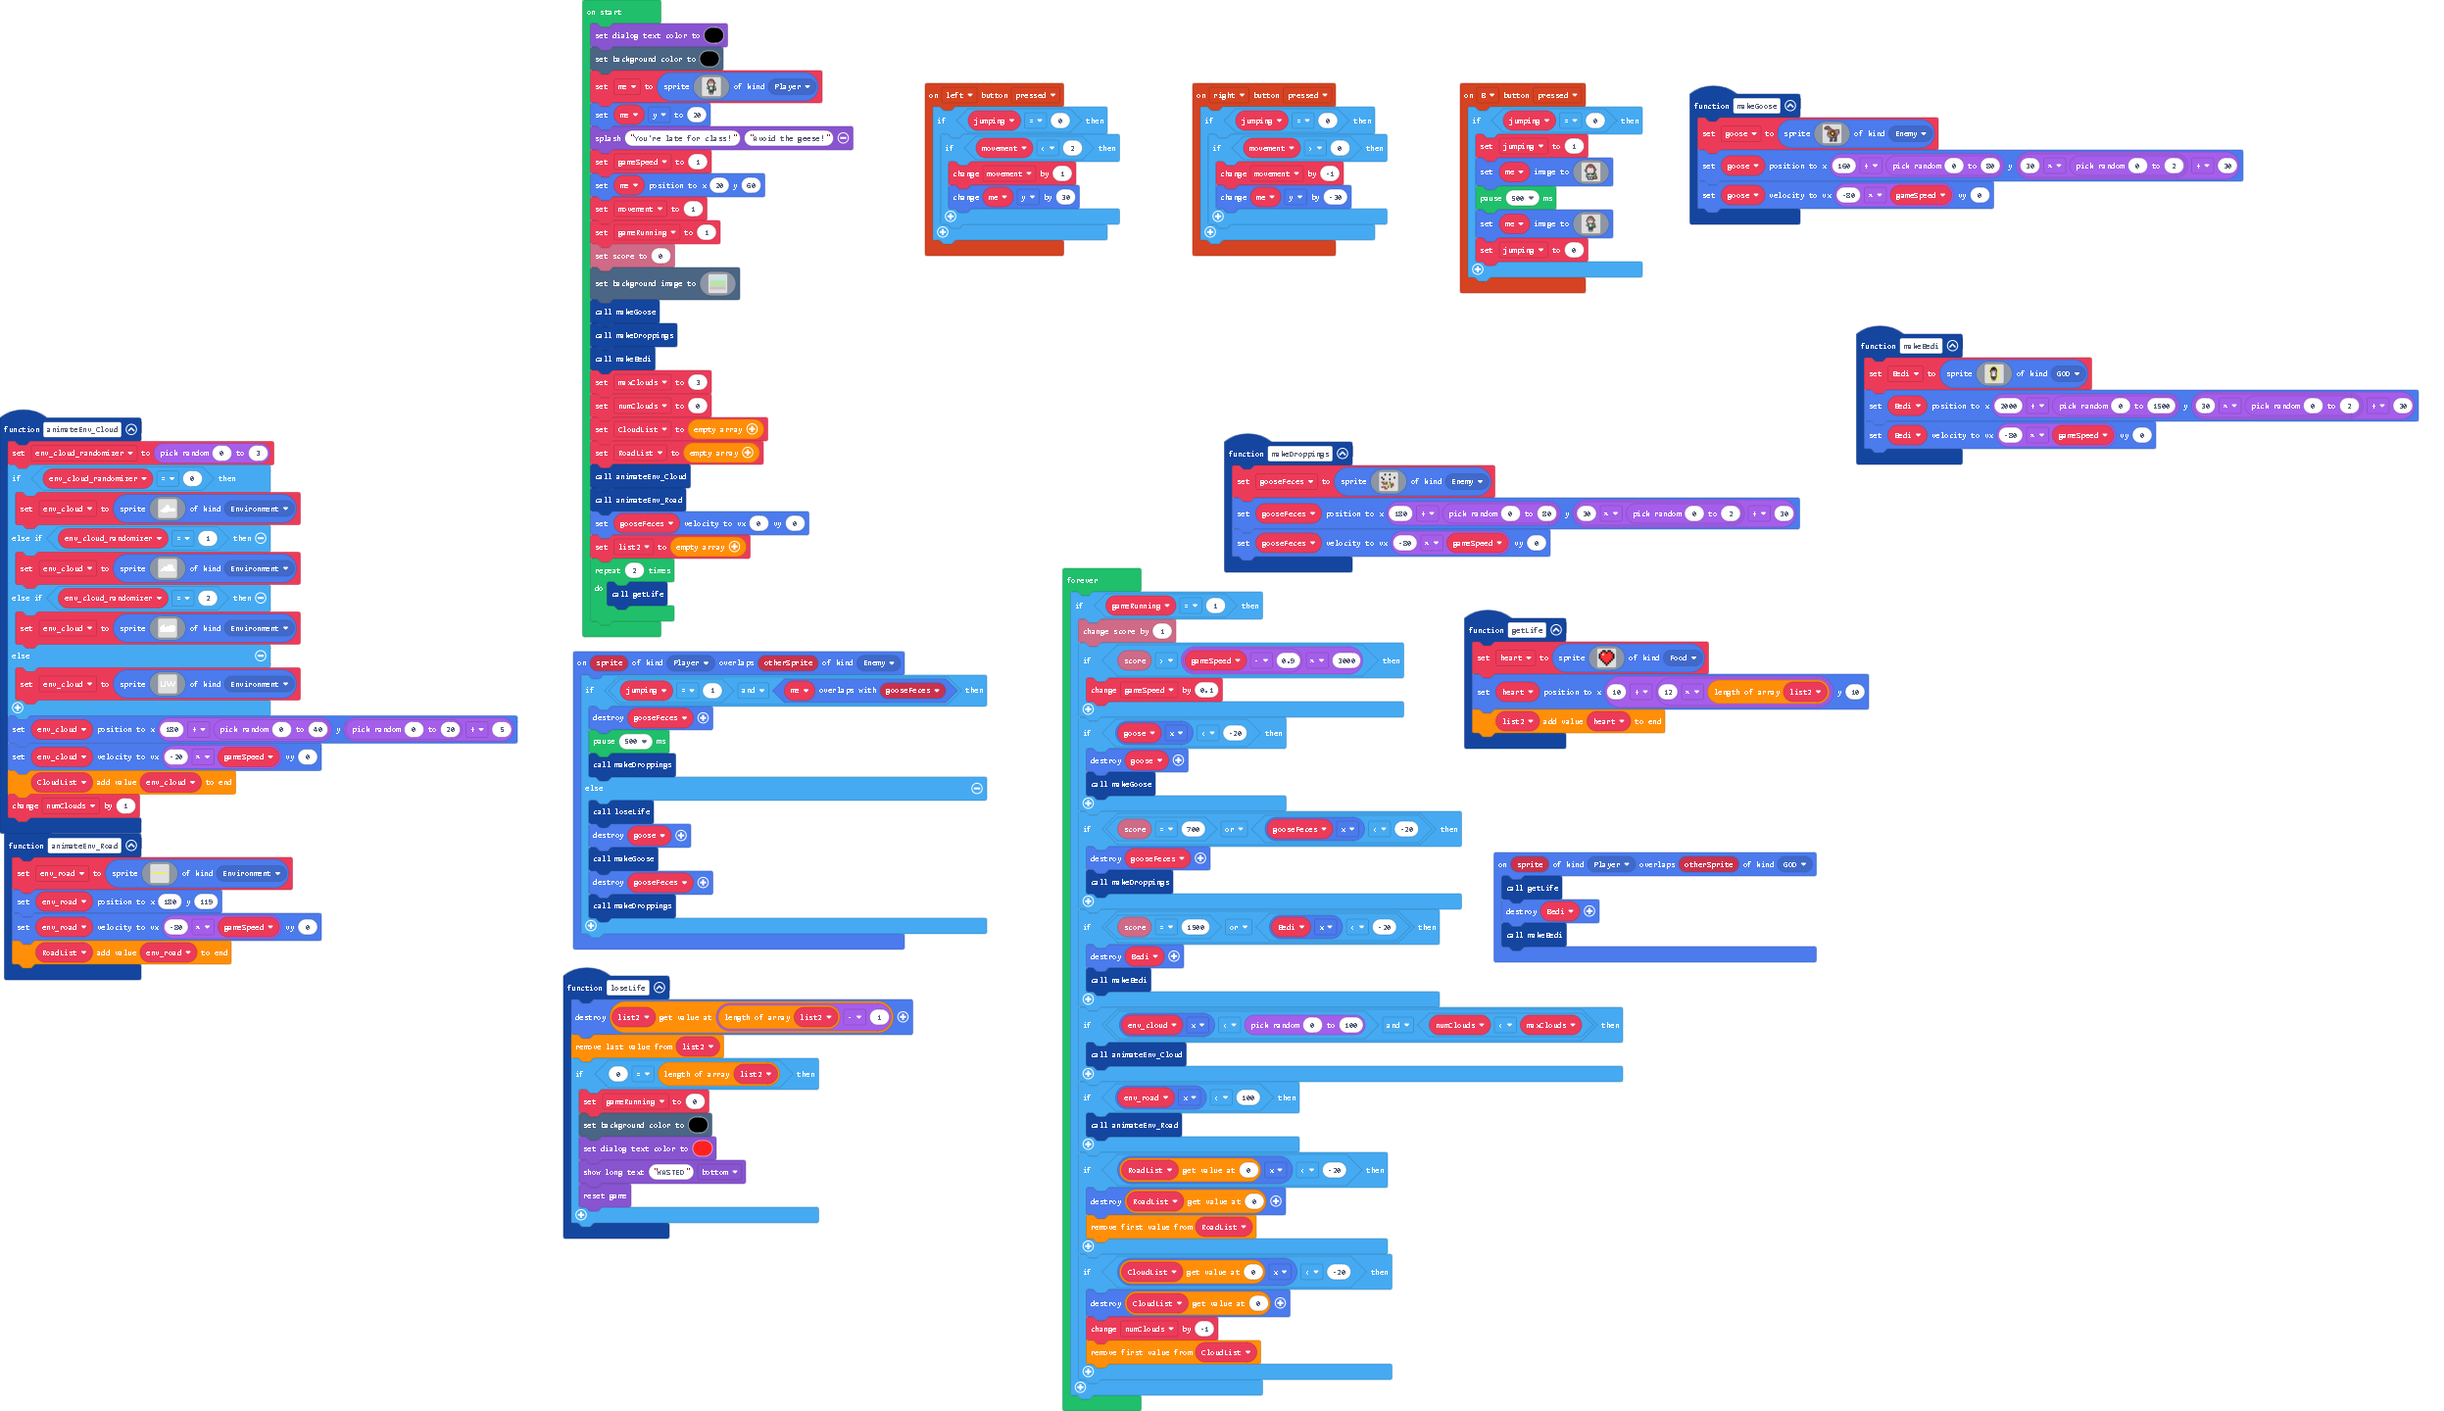
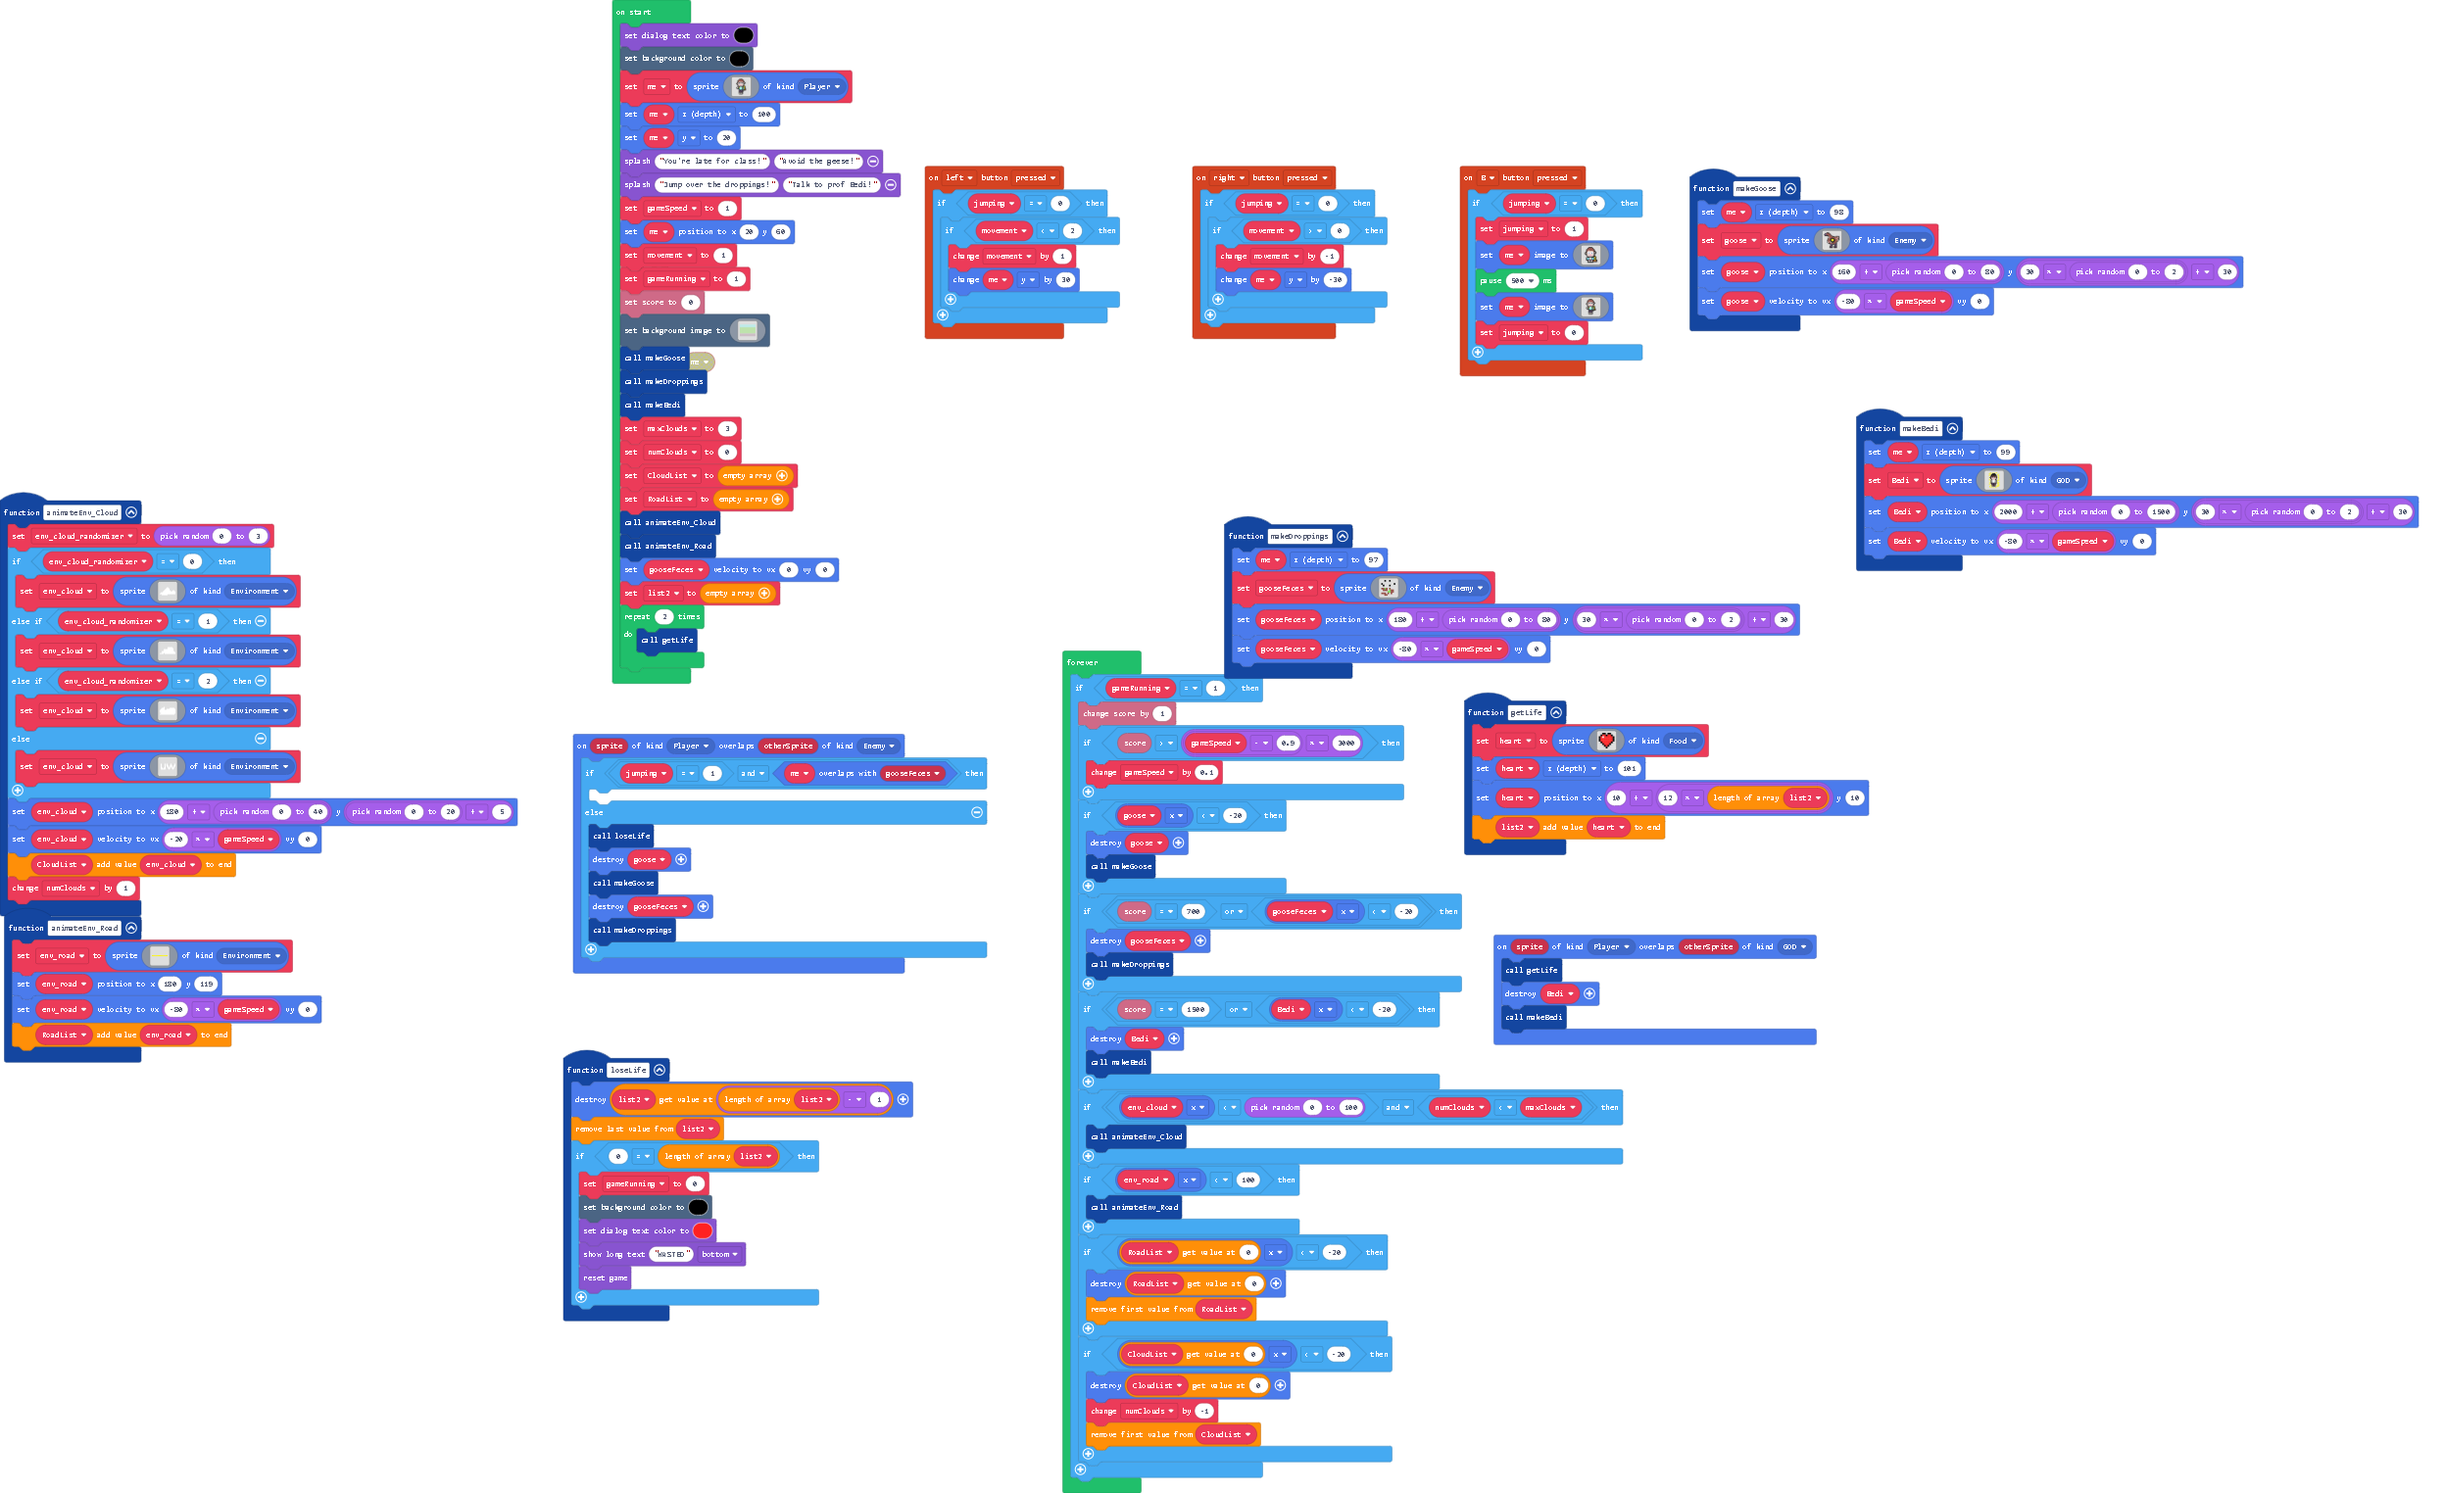
Update main.blocks, main.ts

Changed region(s): [[0.0, 0.0, 0.988, 1.0]]

diff --git a/main.ts b/main.ts
@@ -14,10 +14,12 @@ function getLife () {
         . . . f 2 f . . . 
         . . . . f . . . . 
         `, SpriteKind.Food)
+    heart.z = 101
     heart.setPosition(10 + 12 * list2.length, 10)
     list2.push(heart)
 }
 function makeDroppings () {
+    me.z = 97
     gooseFeces = sprites.create(img`
         . . f . . f . . . 
         . . . . . . . . . 
@@ -91,6 +93,7 @@ controller.B.onEvent(ControllerButtonEvent.Pressed, function () {
     }
 })
 function makeGoose () {
+    me.z = 98
     goose = sprites.create(img`
         ....ffff.................
         ..ffeeeef................
@@ -150,6 +153,7 @@ controller.right.onEvent(ControllerButtonEvent.Pressed, function () {
     }
 })
 function makeBedi () {
+    me.z = 99
     Bedi = sprites.create(img`
         ..55...55..5..55....
         ...55...5....55.....
@@ -253,9 +257,7 @@ function animateEnv_Cloud () {
 }
 sprites.onOverlap(SpriteKind.Player, SpriteKind.Enemy, function (sprite, otherSprite) {
     if (jumping == 1 && me.overlapsWith(gooseFeces)) {
-        gooseFeces.destroy()
-        pause(500)
-        makeDroppings()
+    	
     } else {
         loseLife()
         goose.destroy()
@@ -309,8 +311,10 @@ me = sprites.create(img`
     ....f11f11f.....
     .....ff.ff......
     `, SpriteKind.Player)
+me.z = 100
 me.y = 20
 game.splash("You're late for class!", "Avoid the geese!")
+game.splash("Jump over the droppings!", "Talk to prof Bedi!")
 gameSpeed = 1
 me.setPosition(20, 60)
 movement = 1
